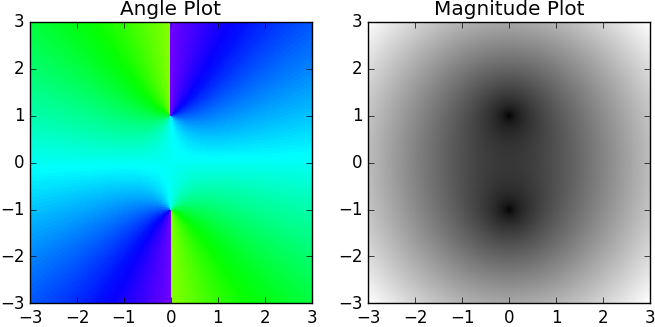
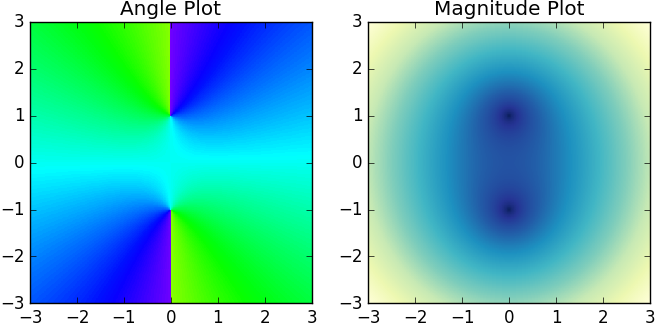
changed colormap on new plot

diff --git a/Labs/Vol1B/Complex1-Plots/plots.py b/Labs/Vol1B/Complex1-Plots/plots.py
@@ -67,7 +67,7 @@ def check_plot_2():
     y = np.linspace(-3, 3, 401)
     X,Y = np.meshgrid(x,y)
     Z=f(X+Y*1j)
-    plt.pcolormesh(X, Y, np.absolute(Z), cmap='gray')
+    plt.pcolormesh(X, Y, np.absolute(Z), cmap='YlGnBu_r')
     plt.gca().set_aspect('equal', adjustable='box')
     plt.title('Magnitude Plot')
 
